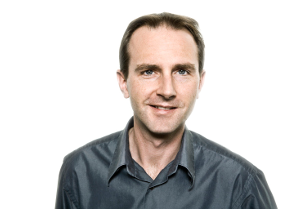
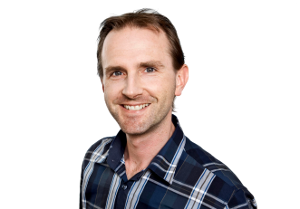
Add new photos from latest photo shooting.

diff --git a/about-us/css/overview.css b/about-us/css/overview.css
@@ -10,3 +10,14 @@ td.col0 { text-align: left; }
 .col0 { background-color: white; }
 .col1 { background-color: #dde9ed; }
 .col2 { background-color: #c5e3ed; }
+
+.portrait {
+	float: left;
+	margin-top: 4px;
+	margin-right: 17px;
+}
+
+.portrait img {
+	margin-bottom: 3px;
+	border: 1px solid #B0B0B0;
+}
